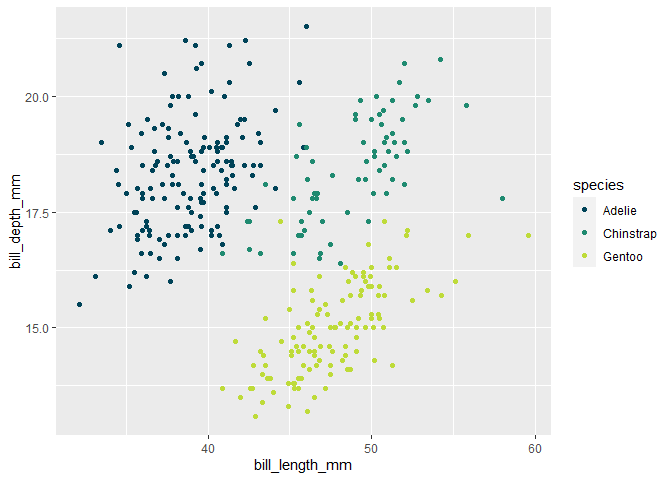
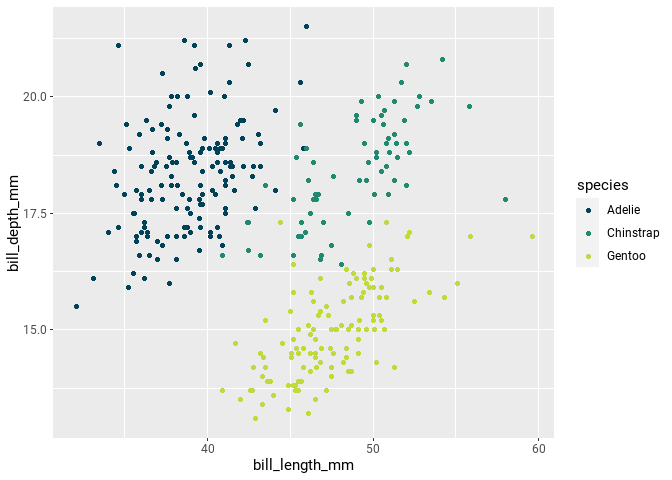
Update Readme
Make use of new themes

diff --git a/README.md b/README.md
@@ -27,7 +27,7 @@ library(benelib)
 
 ## Examples
 
-### Color and fill scales
+### ggplot2 Colors and Fills
 
 One of the main reasons for this package to exist is the abilty to
 change `ggplot2`’s default color and fill scales to a given corporate
@@ -35,11 +35,11 @@ design.
 
 ``` r
 library(ggplot2)
+set_personal_theme()
 
 palmer_penguins %>% 
   ggplot(aes(bill_length_mm, bill_depth_mm, color = species)) +
-  geom_point() +
-  scale_color_personal()
+  geom_point()
 ```
 
 <img src="man/figures/README-example-color-scale-1.png" width="100%" />
@@ -52,7 +52,6 @@ Another nice addition is my personal `ggplot2` theme.
 palmer_penguins %>% 
   ggplot(aes(bill_length_mm, bill_depth_mm, color = species)) +
   geom_point() +
-  scale_color_personal() +
   theme_bene()
 ```
 
